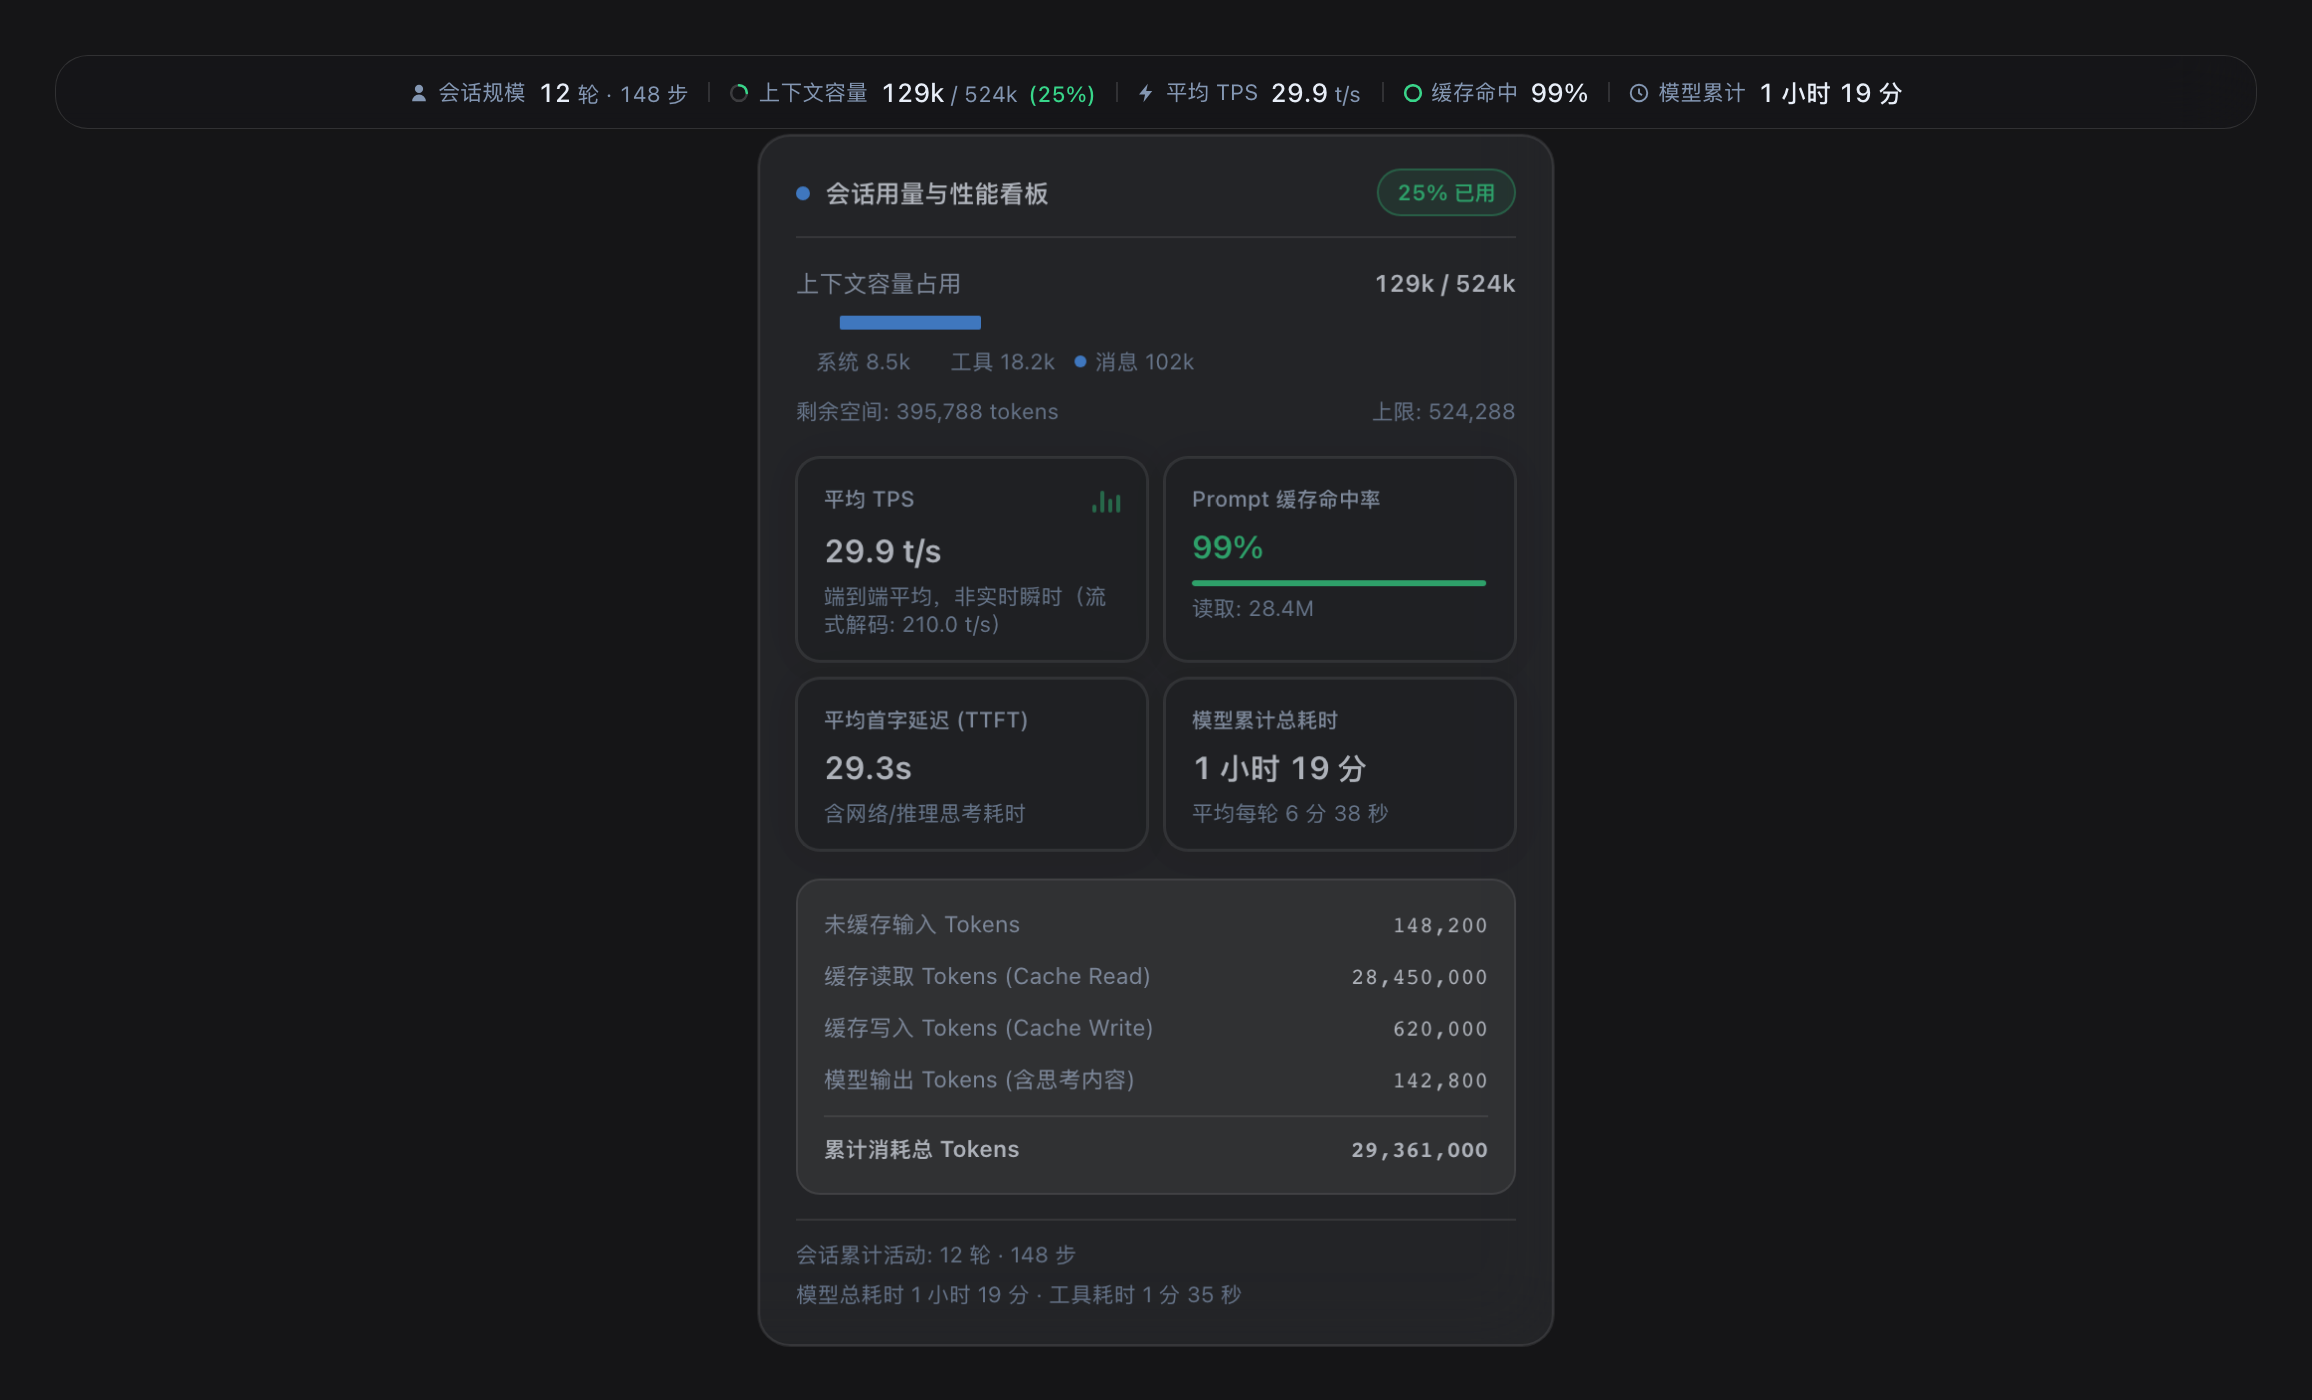
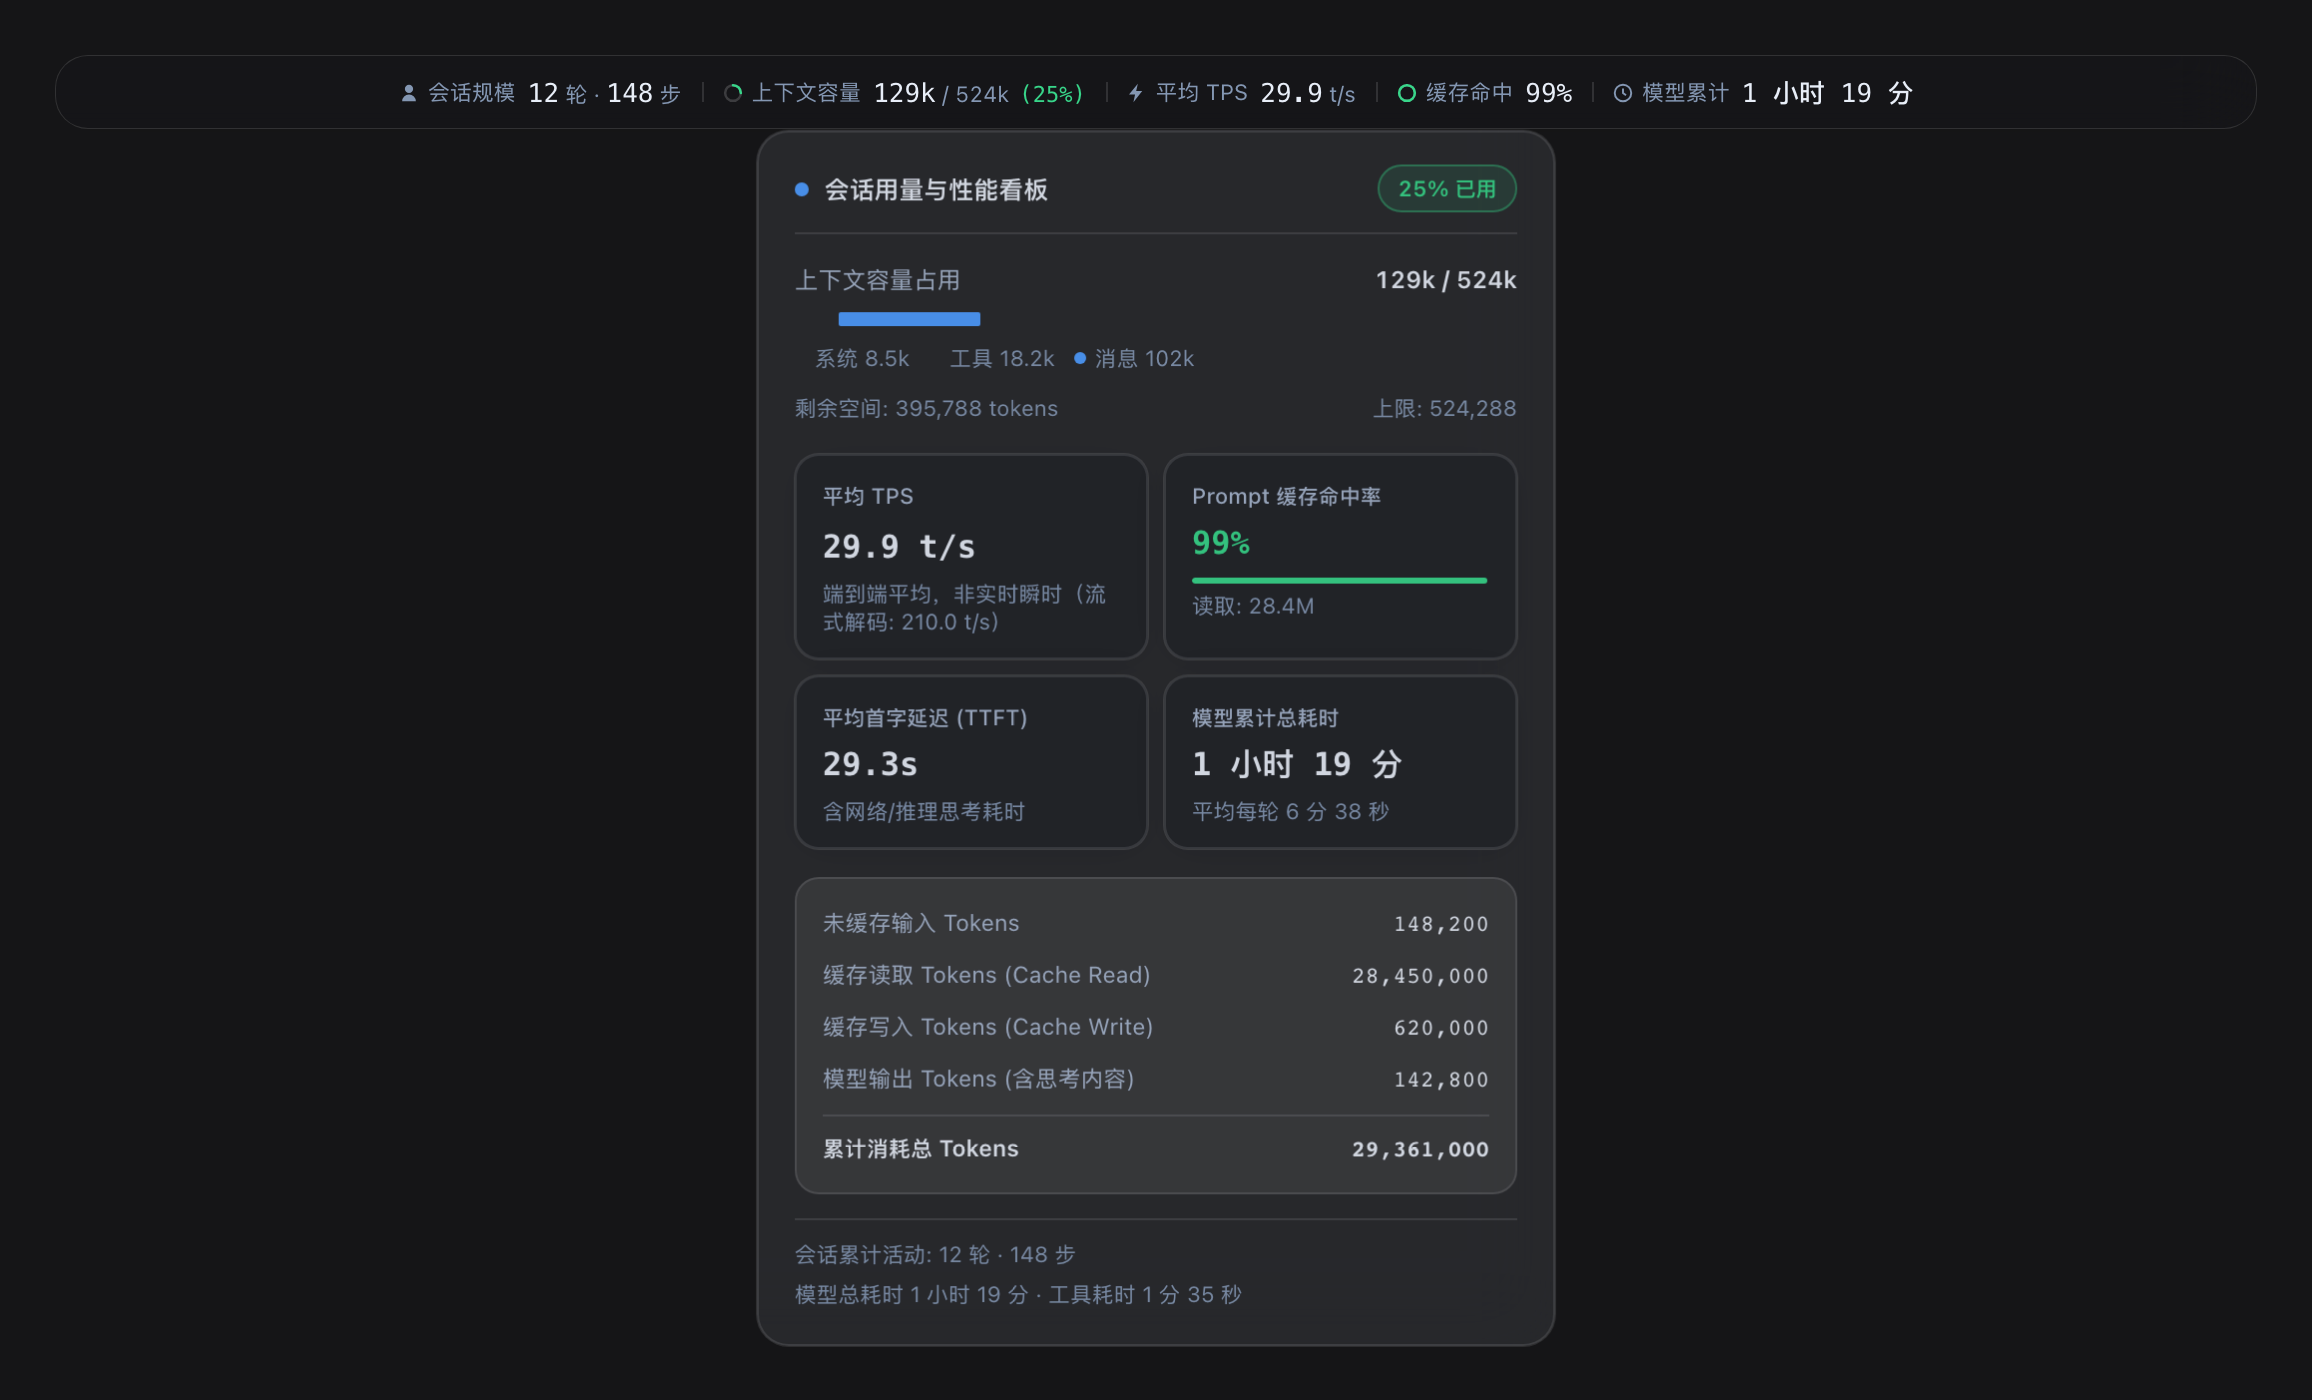
docs: 重写 README 并重出全部截图
README 原描述已与实现脱节（冰蓝玻璃/径向微光/连线辉光/Research 紫色/
103 项测试），改为按当前潮汐深海蓝实现描述，并新增「设计基线」章节固化
6-3-1 配色、字阶、等宽读数与状态清单，与 docs/ui-design-contract.md 互链。

截图脚本原先引用 5 处已删除的 CSS 变量（--dsh-tide-accent-*/glass-fill*），
重出会渲染错乱，已改为语义 token；16 张截图按新配色重新生成。

diff --git a/docs/ui-design-contract.md b/docs/ui-design-contract.md
@@ -1,0 +1,41 @@
+# Simplify Theme · UI 重整设计与验收契约
+
+目标是一个可长期使用的 DSH 对话工作台。沿用用户参考图的深蓝玻璃材质、分层侧栏和委派图，不把营销图里的虚构导航或任务清单注入真实会话。对话是主区域；输入是主操作；用量与子代理是从属信息。
+
+## 布局与密度
+
+- 保留宿主侧栏宽度、导航、消息列宽度和分屏机制；主题不重新实现应用壳。
+- 顶栏沿用宿主结构，只有真正的对话头部需要表面处理，不匹配所有含 `_header` 的类。
+- 输入区的附件、原生权限、插件模型/思考等级、其他插件控件、发送/停止各保留一份。只在替代模型座实际存在时隐藏原生 ModelSelect，不能隐藏整个 standardControls，也不能隐藏其他 menu 按钮。
+- 输入卡片与有数据的统计栏共享边缘与材质。统计被关闭或无数据时恢复独立圆角，原生统计不受影响。
+- HUD 用 CSS Grid，不用 flex-basis 数学排布。可用容器宽度 >=640px 四列；<640px 两列。在 340px 可用宽度仍保留两列；每个值可局部换行，不能把整个 HUD 变成四个全宽行。四指标时宽模式总高 <=116px，窄模式 <=196px（含耗时）；无投影不显示空托盘。
+- HUD 只展示真实会话轮/步、上下文占用、端到端平均 TPS、缓存命中；耗时为轻量尾行。累计 TPS 不标为“实时”，无数据不填 0 冒充测量，缓存数字不重复前缀。上下文容量只接受当前 projected/pressure/breakdown，不用历史累计 Token 冒充；本轮耗时与模型累计耗时使用不同标签。
+- 详情弹层有可访问名称、Escape/外点关闭，窄屏/短视口内可滚动。不能因 blur/transform 祖先而定位出视口。
+- 委派摘要默认折叠。展开后保留顶部编排节点与弧线；根据实际容器宽度四/二/一列卡片。标题、模型、状态、实际步骤数、打开/停止操作清晰分层；不生成未经证实的“已完成清单”。主节点状态必须反映子节点聚合结果。
+
+## 配色（单一 Token 来源）
+
+- 画布 #0b1420；侧栏 #0a121d；一级面 #101c2b；玻璃面 #152337。
+- 主文字 #e9effa；次文字 #a6b5cd；说明 #8497b3（小字避免过暗）。
+- 主强调 #7aaaf0；成功 #4ee39b；警戒 #ffc46b；失败 #ff9b9b。职责色只用于委派图图标与细边。
+- 保留冷色玻璃边缘和轻微染色阴影，减少多个大面积外发光。深浅主题各自成立。
+- `themeOverrides` 控制全局皮肤，关闭后必须完整恢复宿主全局颜色和布局表面。Token 由 ctx.theme.overrideTokens 负责，不添加第二套硬编码变量覆盖。macOS 原生半透明侧栏可用狭窄、验证过的结构选择器覆盖其表面，颜色仍来自 token。
+- 不使用全局 `[class*='_root']`、`[class*='_header']`、`[class*='_frame']` 或全局通配菜单隐藏规则；必要 CSS module 后缀匹配要受确定结构约束并有防误伤测试。
+
+## 字体与字号
+
+使用宿主系统无衬线字体；数字使用 tabular-nums，不引入网络字体。正文14/22px；控件13/20px、高28px；指标标签12/18px；HUD主读数22/28px；单位12/18px；图谱标题14/20px；编排节点标题16/22px；状态12/18px。缩窄时改布局而非缩小文字。
+
+## 验收矩阵
+
+1. 新会话/现有会话、明暗主题、themeOverrides开/关、dockStats开/关/无投影。
+2. 独立组件预览与宿主结构契约测试分开命名；不能把合成壳截图描述成真实应用截图。
+3. 使用宿主相同的 composer/dock slot wrapper、原生模型/权限 DOM 和布局 CSS 验证 1040/720/600/390px 内容宽度、开右侧分屏、短高度。
+4. 确认只有原生 ModelSelect 隐藏；原生权限、input.right 的图像插件按钮、其他 menu 按钮可见；禁用模型替换后原生模型恢复。
+5. HUD 几何断言列位置与高度，卡片与 HUD 边缘一致，开关关闭恢复圆角；详情弹层全部位于视口并可访问。
+6. 委派 running/done/failed/denied、长中英文标题、1/4/8节点、折叠/展开/卸载，真实步数和状态一致。
+7. 运行类型检查、单元测试、浏览器回归和构建，审查 final diff。真实桌面截图只有工具实际采集成功且验证构建版本后才可作为证据；无法采集必须保留未完成项。
+
+## 当前证据边界
+
+前一轮“彻底修复”的结论未经刷新后真实界面验证。当前 GUI HTTP 返回401，不能当作可操控浏览器会话。OS可读到DSH窗口几何但矩形截图返回 could not create image from rect；原因尚未确认。继续使用实际宿主结构契约验证，不据此声称已验收真实桌面。
